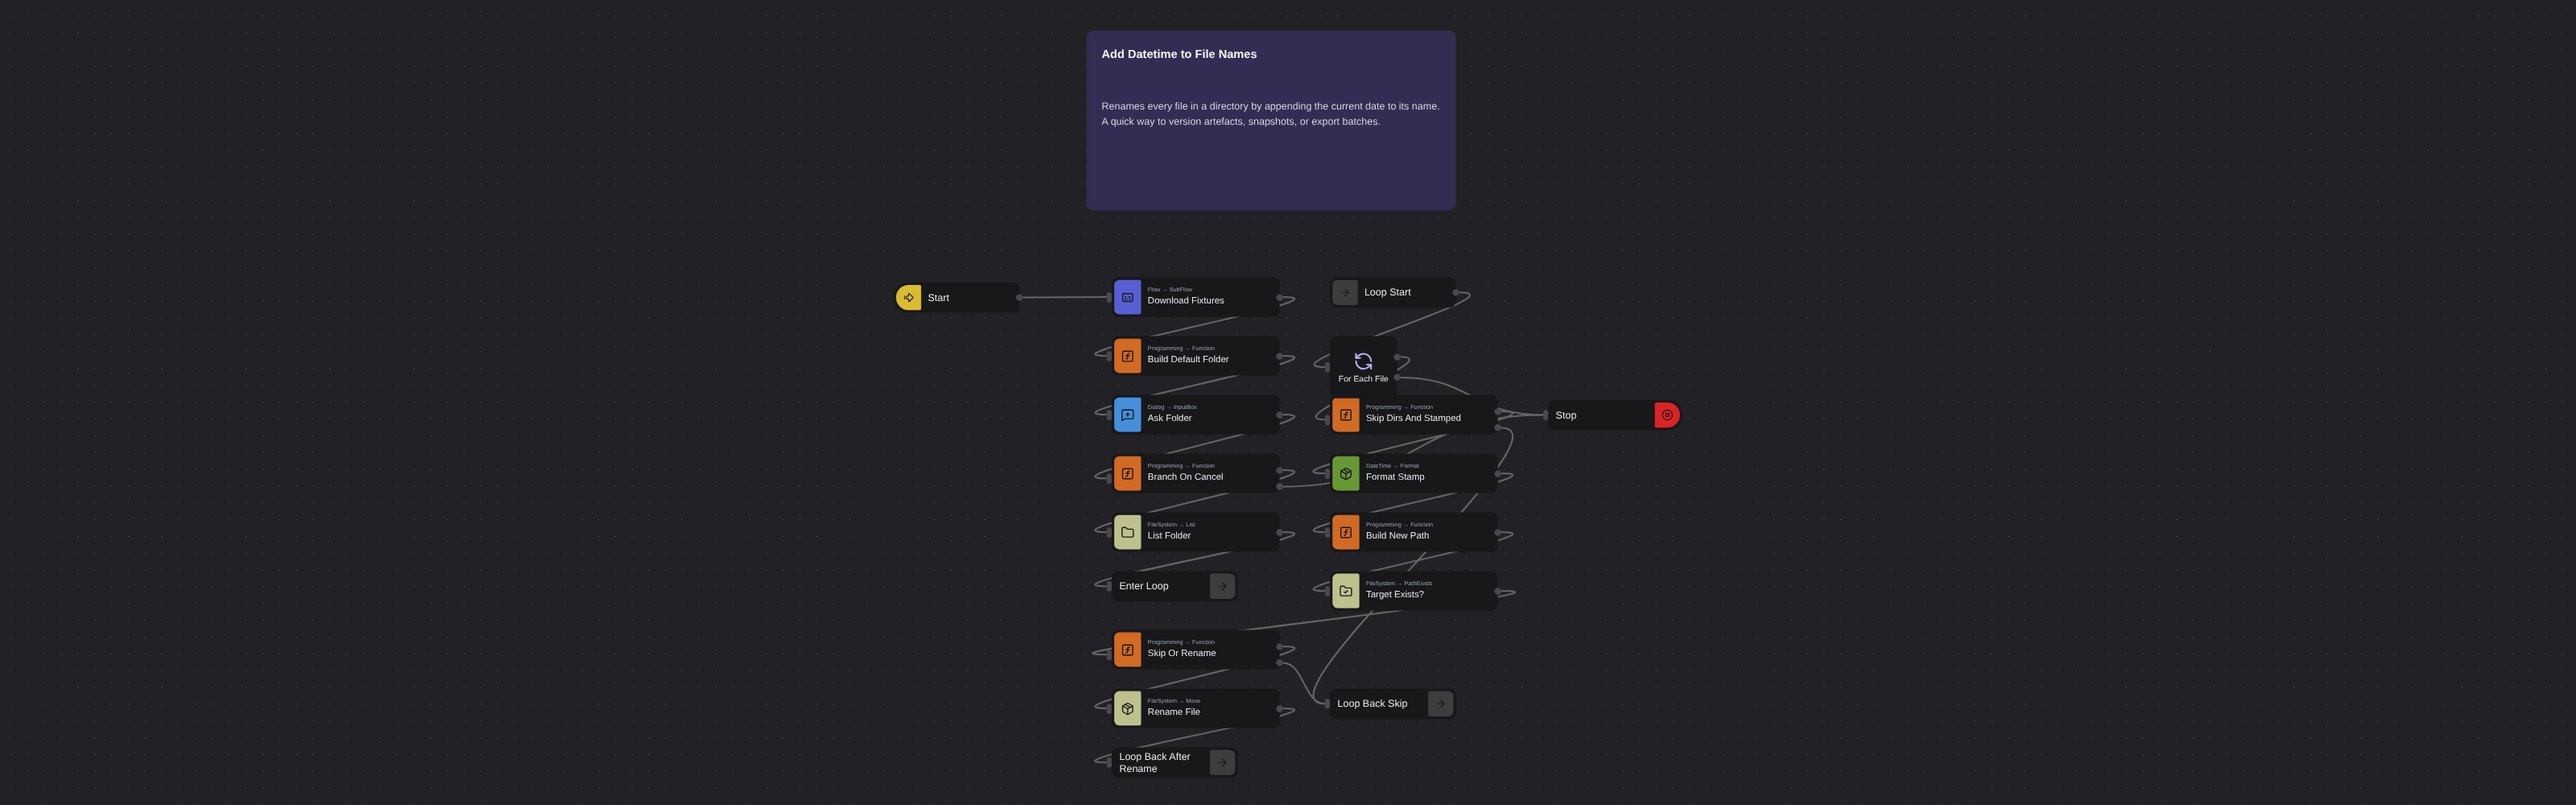
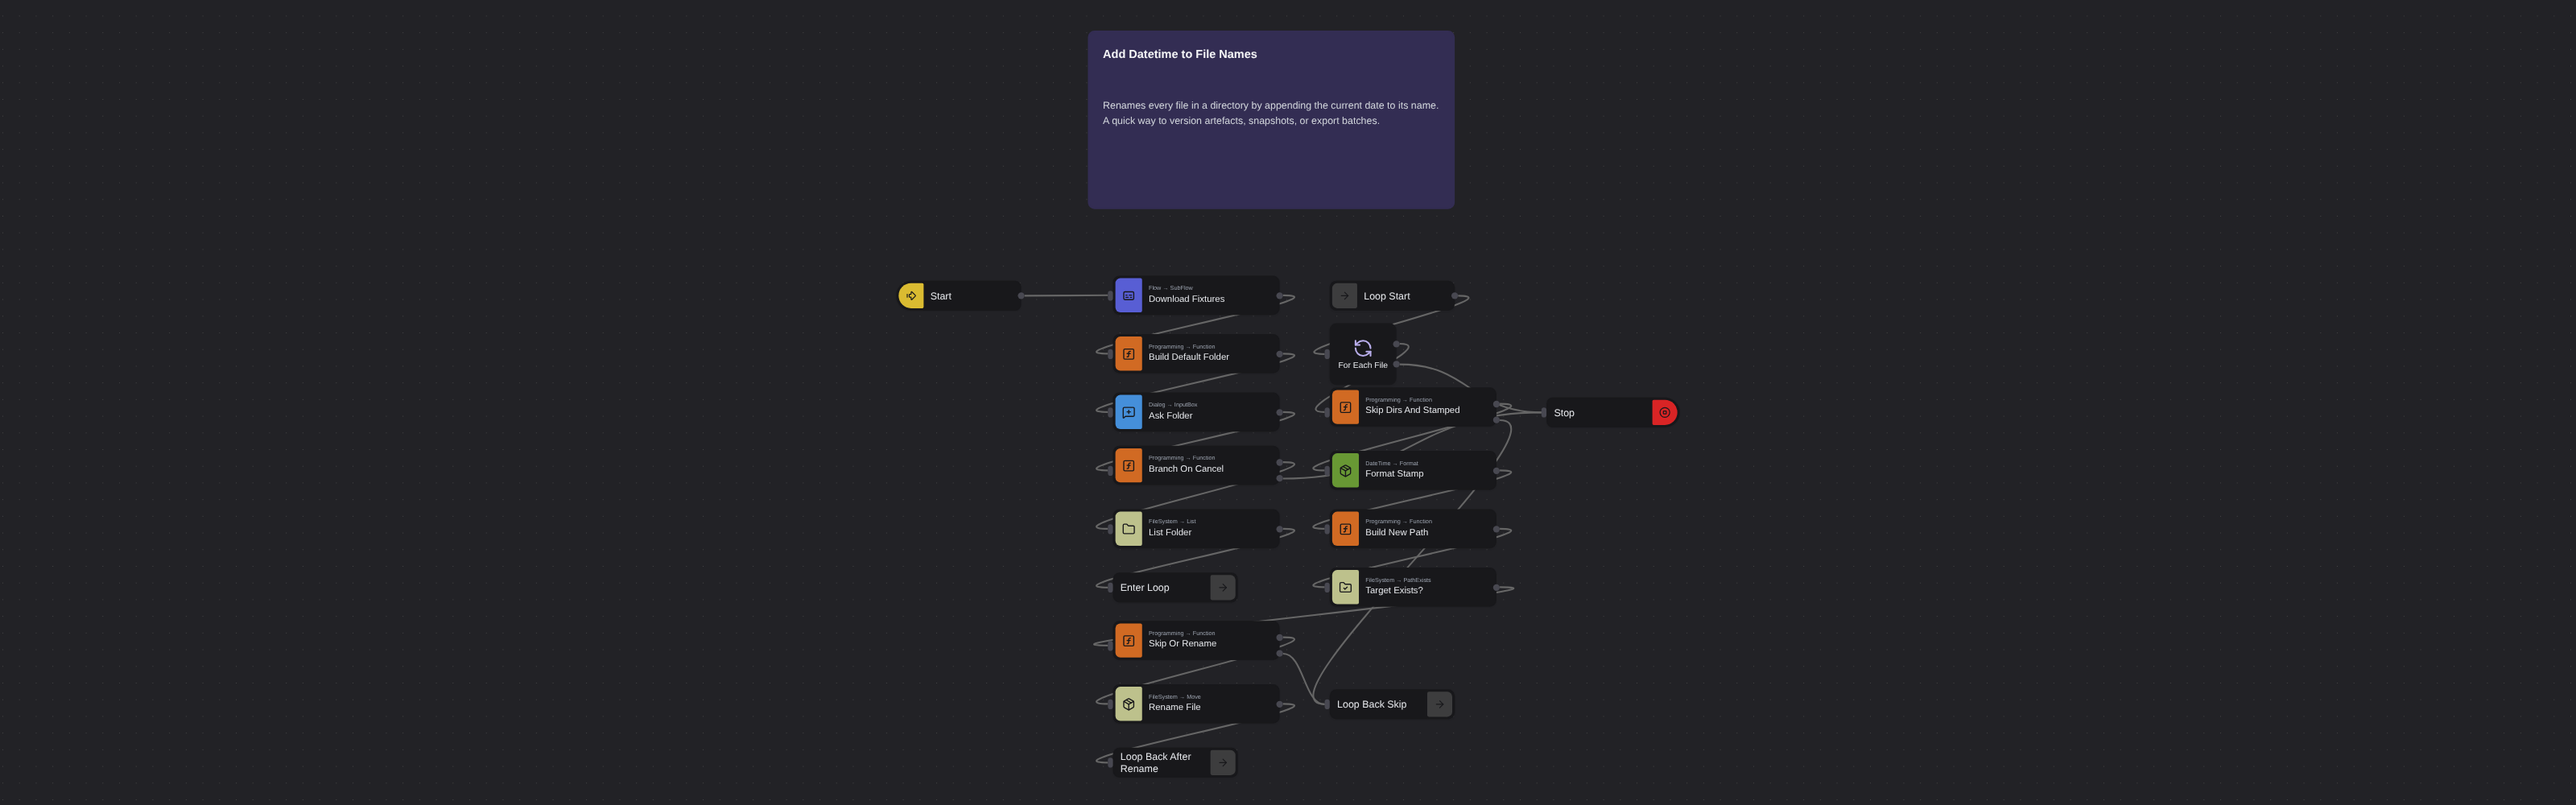
Align ports by node height, not node tops
Robomotion renders nodes with different heights (trigger=36px,
default=47px, box/ForEach=74+px). Placing tops on the grid leaves
ports misaligned — a ForEach's input port sat ~14px below its
predecessor's output port.

The layout engine now computes each node's top from a row's canonical
port-y (rowPortY) minus half its own height (nodeHeight), matching the
screenshot-generator/node-classifier dimensions. Replaces the flat
TRIG_NUDGE constant with a per-node offset.

Applied only to the 9 ForEach-using flows among the 51 ports.

diff --git a/consolidate-excel-reports/main.designer.ts b/consolidate-excel-reports/main.designer.ts
@@ -3,25 +3,25 @@ export default {
   sourceHash: '3569e408',
   positions: {
     'a11000': { x: 600, y: 100 },
-    'a10010': { x: 860, y: 100 },
-    'a10041': { x: 1120, y: 100 },
-    'a10051': { x: 1380, y: 100 },
+    'a10010': { x: 860, y: 106 },
+    'a10041': { x: 1120, y: 106 },
+    'a10051': { x: 1380, y: 94 },
     'a10002': { x: 600, y: 170 },
-    'a10011': { x: 860, y: 170 },
+    'a10011': { x: 860, y: 157 },
     'a10032': { x: 1120, y: 170 },
     'a10052': { x: 1380, y: 170 },
     'a10020': { x: 600, y: 240 },
     'a10021': { x: 860, y: 240 },
     'a10029': { x: 1120, y: 240 },
     'a10033': { x: 1380, y: 240 },
-    'a10053': { x: 1640, y: 240 },
-    'a10003': { x: 600, y: 310 },
-    'a10012': { x: 860, y: 310 },
+    'a10053': { x: 1640, y: 246 },
+    'a10003': { x: 600, y: 304 },
+    'a10012': { x: 860, y: 316 },
     'a10030': { x: 1120, y: 310 },
     'a10034': { x: 1380, y: 310 },
-    'a10004': { x: 600, y: 380 },
+    'a10004': { x: 600, y: 386 },
     'a10031': { x: 860, y: 380 },
-    'a10040': { x: 600, y: 450 },
+    'a10040': { x: 600, y: 456 },
     'a10001': { x: 340, y: 106 },
     'a10098': { x: 1640, y: 106 },
     'a10099': { x: 1640, y: 316 },

diff --git a/delete-files-of-specific-size-range/main.designer.ts b/delete-files-of-specific-size-range/main.designer.ts
@@ -3,23 +3,23 @@ export default {
   sourceHash: '8560678d',
   positions: {
     'a11000': { x: 600, y: 100 },
-    'a10020': { x: 860, y: 100 },
+    'a10020': { x: 860, y: 106 },
     '5355dc': { x: 600, y: 170 },
-    'a10021': { x: 860, y: 170 },
+    'a10021': { x: 860, y: 157 },
     'a10002': { x: 600, y: 240 },
-    'a10022': { x: 860, y: 240 },
+    'a10022': { x: 860, y: 234 },
     'a10003': { x: 600, y: 310 },
     'a10023': { x: 860, y: 310 },
-    'a10025': { x: 1120, y: 310 },
+    'a10025': { x: 1120, y: 316 },
     'a10004': { x: 600, y: 380 },
     'a10026': { x: 860, y: 380 },
     'a10005': { x: 600, y: 450 },
-    'a10024': { x: 860, y: 450 },
+    'a10024': { x: 860, y: 456 },
     'a10006': { x: 600, y: 520 },
     'a10007': { x: 600, y: 590 },
-    'a10008': { x: 600, y: 660 },
+    'a10008': { x: 600, y: 654 },
     'a10009': { x: 600, y: 730 },
-    'a10010': { x: 600, y: 800 },
+    'a10010': { x: 600, y: 806 },
     'a10001': { x: 340, y: 106 },
     'a10099': { x: 1120, y: 421 },
     'c01000': { x: 570, y: -194 },

diff --git a/search-and-replace-excel-values/main.designer.ts b/search-and-replace-excel-values/main.designer.ts
@@ -3,9 +3,9 @@ export default {
   sourceHash: '91cfe36c',
   positions: {
     'a11000': { x: 600, y: 100 },
-    'a10020': { x: 860, y: 100 },
+    'a10020': { x: 860, y: 106 },
     '5355dc': { x: 600, y: 170 },
-    'a10021': { x: 860, y: 170 },
+    'a10021': { x: 860, y: 157 },
     'a10002': { x: 600, y: 240 },
     'a10022': { x: 860, y: 240 },
     'a10030': { x: 1120, y: 240 },
@@ -13,14 +13,14 @@ export default {
     'a10023': { x: 860, y: 310 },
     'a10031': { x: 1120, y: 310 },
     'a10004': { x: 600, y: 380 },
-    'a10024': { x: 860, y: 380 },
+    'a10024': { x: 860, y: 386 },
     'a10032': { x: 1120, y: 380 },
     'a10005': { x: 600, y: 450 },
-    'a10006': { x: 600, y: 520 },
+    'a10006': { x: 600, y: 514 },
     'a10007': { x: 600, y: 590 },
     'a10008': { x: 600, y: 660 },
     'a10009': { x: 600, y: 730 },
-    'a10010': { x: 600, y: 800 },
+    'a10010': { x: 600, y: 806 },
     'a10001': { x: 340, y: 106 },
     'a10099': { x: 1380, y: 456 },
     'c01000': { x: 570, y: -194 },

diff --git a/add-datetime-to-file-names/main.designer.ts b/add-datetime-to-file-names/main.designer.ts
@@ -3,21 +3,21 @@ export default {
   sourceHash: 'd13d7258',
   positions: {
     'a11000': { x: 600, y: 100 },
-    'a10010': { x: 860, y: 100 },
+    'a10010': { x: 860, y: 106 },
     'a10020': { x: 600, y: 170 },
-    'a10011': { x: 860, y: 170 },
+    'a10011': { x: 860, y: 157 },
     'a10002': { x: 600, y: 240 },
-    'a10012': { x: 860, y: 240 },
-    'a10003': { x: 600, y: 310 },
+    'a10012': { x: 860, y: 234 },
+    'a10003': { x: 600, y: 304 },
     'a10013': { x: 860, y: 310 },
     'a10004': { x: 600, y: 380 },
     'a10014': { x: 860, y: 380 },
-    'a10005': { x: 600, y: 450 },
+    'a10005': { x: 600, y: 456 },
     'a10015': { x: 860, y: 450 },
-    'a10016': { x: 600, y: 520 },
+    'a10016': { x: 600, y: 514 },
     'a10017': { x: 600, y: 590 },
-    'a10019': { x: 860, y: 590 },
-    'a10018': { x: 600, y: 660 },
+    'a10019': { x: 860, y: 596 },
+    'a10018': { x: 600, y: 666 },
     'a10001': { x: 340, y: 106 },
     'a10099': { x: 1120, y: 246 },
     'c01000': { x: 570, y: -194 },

diff --git a/split-pdf-into-parts/main.designer.ts b/split-pdf-into-parts/main.designer.ts
@@ -3,23 +3,23 @@ export default {
   sourceHash: '88780799',
   positions: {
     'a11000': { x: 600, y: 100 },
-    'a10020': { x: 860, y: 100 },
+    'a10020': { x: 860, y: 106 },
     'a10040': { x: 600, y: 170 },
-    'a10021': { x: 860, y: 170 },
+    'a10021': { x: 860, y: 157 },
     'a10002': { x: 600, y: 240 },
     'a10050': { x: 860, y: 240 },
     'a10030': { x: 1120, y: 240 },
     'a10003': { x: 600, y: 310 },
-    'a10022': { x: 860, y: 310 },
+    'a10022': { x: 860, y: 316 },
     'a10031': { x: 1120, y: 310 },
-    'a10004': { x: 600, y: 380 },
+    'a10004': { x: 600, y: 374 },
     'a10032': { x: 860, y: 380 },
     'a10005': { x: 600, y: 450 },
     'a10006': { x: 600, y: 520 },
     'a10007': { x: 600, y: 590 },
     'a10008': { x: 600, y: 660 },
     'a10009': { x: 600, y: 730 },
-    'a10010': { x: 600, y: 800 },
+    'a10010': { x: 600, y: 806 },
     'a10001': { x: 340, y: 106 },
     'a10099': { x: 1120, y: 386 },
     'c01000': { x: 570, y: -194 },

diff --git a/find-and-delete-empty-files/main.designer.ts b/find-and-delete-empty-files/main.designer.ts
@@ -3,20 +3,20 @@ export default {
   sourceHash: 'c4b35f5b',
   positions: {
     'a11000': { x: 600, y: 100 },
-    'a10010': { x: 860, y: 100 },
+    'a10010': { x: 860, y: 106 },
     '5355dc': { x: 600, y: 170 },
-    'a10011': { x: 860, y: 170 },
+    'a10011': { x: 860, y: 157 },
     'a10002': { x: 600, y: 240 },
-    'a10012': { x: 860, y: 240 },
+    'a10012': { x: 860, y: 234 },
     'a10003': { x: 600, y: 310 },
     'a10013': { x: 860, y: 310 },
-    'a10016': { x: 1120, y: 310 },
+    'a10016': { x: 1120, y: 316 },
     'a10004': { x: 600, y: 380 },
     'a10014': { x: 860, y: 380 },
-    'a10005': { x: 600, y: 450 },
-    'a10015': { x: 860, y: 450 },
+    'a10005': { x: 600, y: 444 },
+    'a10015': { x: 860, y: 456 },
     'a10006': { x: 600, y: 520 },
-    'a10007': { x: 600, y: 590 },
+    'a10007': { x: 600, y: 596 },
     'a10001': { x: 340, y: 106 },
     'a10099': { x: 1120, y: 386 },
     'c01000': { x: 570, y: -194 },

diff --git a/concatenate-text-files/main.designer.ts b/concatenate-text-files/main.designer.ts
@@ -3,9 +3,9 @@ export default {
   sourceHash: '600b4d47',
   positions: {
     'a11000': { x: 600, y: 100 },
-    'a10006': { x: 860, y: 100 },
+    'a10006': { x: 860, y: 106 },
     '5355dc': { x: 600, y: 170 },
-    'a10007': { x: 860, y: 170 },
+    'a10007': { x: 860, y: 157 },
     'a10002': { x: 600, y: 240 },
     'a10010': { x: 860, y: 240 },
     'a10099': { x: 1120, y: 240 },
@@ -13,8 +13,8 @@ export default {
     'a10011': { x: 860, y: 310 },
     'a10004': { x: 600, y: 380 },
     'a10012': { x: 860, y: 380 },
-    'a10005': { x: 600, y: 450 },
-    'a10013': { x: 860, y: 450 },
+    'a10005': { x: 600, y: 456 },
+    'a10013': { x: 860, y: 456 },
     'a10001': { x: 340, y: 106 },
     'a10100': { x: 1380, y: 246 },
     'c01000': { x: 570, y: -194 },

diff --git a/copy-files/main.designer.ts b/copy-files/main.designer.ts
@@ -3,16 +3,16 @@ export default {
   sourceHash: 'ca24aba0',
   positions: {
     'a11000': { x: 600, y: 100 },
-    'a10010': { x: 860, y: 100 },
+    'a10010': { x: 860, y: 106 },
     'a10002': { x: 600, y: 170 },
-    'a10011': { x: 860, y: 170 },
+    'a10011': { x: 860, y: 157 },
     'a10003': { x: 600, y: 240 },
     'a10012': { x: 860, y: 240 },
-    'a10004': { x: 600, y: 310 },
+    'a10004': { x: 600, y: 304 },
     'a10013': { x: 860, y: 310 },
     'a10005': { x: 600, y: 380 },
-    'a10014': { x: 860, y: 380 },
-    'a10006': { x: 600, y: 450 },
+    'a10014': { x: 860, y: 386 },
+    'a10006': { x: 600, y: 456 },
     'a10001': { x: 340, y: 106 },
     'a10099': { x: 1120, y: 246 },
     'c01000': { x: 570, y: -194 },

diff --git a/print-documents/main.designer.ts b/print-documents/main.designer.ts
@@ -3,15 +3,15 @@ export default {
   sourceHash: 'd97dea09',
   positions: {
     'a11000': { x: 600, y: 100 },
-    'a10010': { x: 860, y: 100 },
+    'a10010': { x: 860, y: 106 },
     '5355dc': { x: 600, y: 170 },
-    'a10011': { x: 860, y: 170 },
+    'a10011': { x: 860, y: 157 },
     'a10002': { x: 600, y: 240 },
     'a10012': { x: 860, y: 240 },
     'a10003': { x: 600, y: 310 },
     'a10013': { x: 860, y: 310 },
-    'a10004': { x: 600, y: 380 },
-    'a10014': { x: 860, y: 380 },
+    'a10004': { x: 600, y: 386 },
+    'a10014': { x: 860, y: 386 },
     'a10001': { x: 340, y: 106 },
     'a10099': { x: 1120, y: 176 },
     'c01000': { x: 570, y: -194 },

diff --git a/consolidate-excel-reports/subflows/a11000.designer.ts b/consolidate-excel-reports/subflows/a11000.designer.ts
@@ -2,7 +2,7 @@ export default {
   flowId: 'Download Fixtures',
   sourceHash: '3f6aad69',
   positions: {
-    'b11001': { x: 600, y: 100 },
+    'b11001': { x: 600, y: 106 },
     'b11002': { x: 600, y: 170 },
     'b11003': { x: 600, y: 240 },
     'b11004': { x: 600, y: 310 },
@@ -11,7 +11,7 @@ export default {
     'b11007': { x: 900, y: 170 },
     'b11008': { x: 900, y: 240 },
     'b11009': { x: 900, y: 310 },
-    'b11099': { x: 900, y: 380 },
+    'b11099': { x: 900, y: 386 },
   },
   cameraPositions: {
     'main': { x: 20, y: 139, zoom: 1.0 },

diff --git a/add-datetime-to-file-names/subflows/a11000.designer.ts b/add-datetime-to-file-names/subflows/a11000.designer.ts
@@ -2,12 +2,12 @@ export default {
   flowId: 'Download Fixtures',
   sourceHash: '0dd29675',
   positions: {
-    'b11001': { x: 600, y: 100 },
+    'b11001': { x: 600, y: 106 },
     'b11002': { x: 600, y: 170 },
     'b11003': { x: 600, y: 240 },
     'b11004': { x: 600, y: 310 },
     'b11005': { x: 600, y: 380 },
-    'b11099': { x: 600, y: 450 },
+    'b11099': { x: 600, y: 456 },
   },
   cameraPositions: {
     'main': { x: 20, y: 139, zoom: 1.0 },

diff --git a/concatenate-text-files/subflows/a11000.designer.ts b/concatenate-text-files/subflows/a11000.designer.ts
@@ -2,12 +2,12 @@ export default {
   flowId: 'Download Fixtures',
   sourceHash: '6b94ea96',
   positions: {
-    'b11001': { x: 600, y: 100 },
+    'b11001': { x: 600, y: 106 },
     'b11002': { x: 600, y: 170 },
     'b11003': { x: 600, y: 240 },
     'b11004': { x: 600, y: 310 },
     'b11005': { x: 600, y: 380 },
-    'b11099': { x: 600, y: 450 },
+    'b11099': { x: 600, y: 456 },
   },
   cameraPositions: {
     'main': { x: 20, y: 139, zoom: 1.0 },
